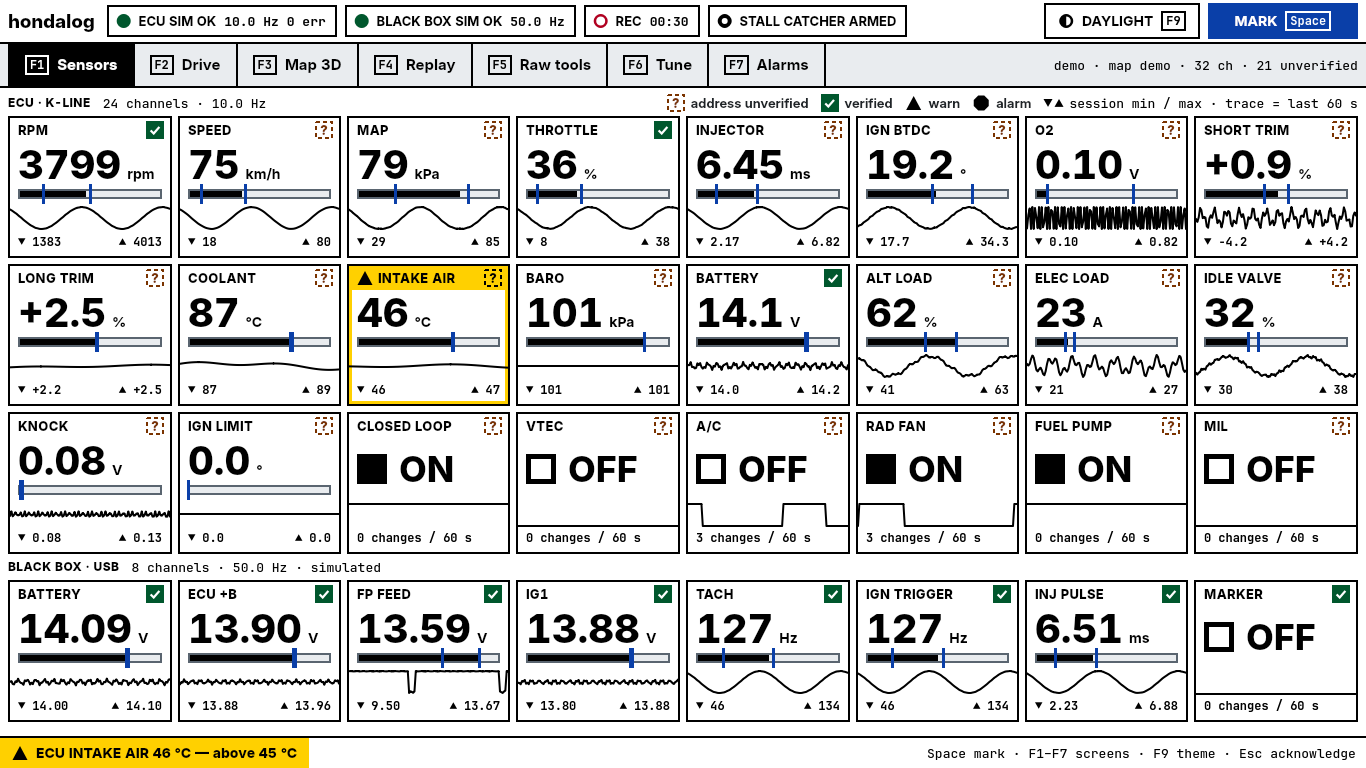
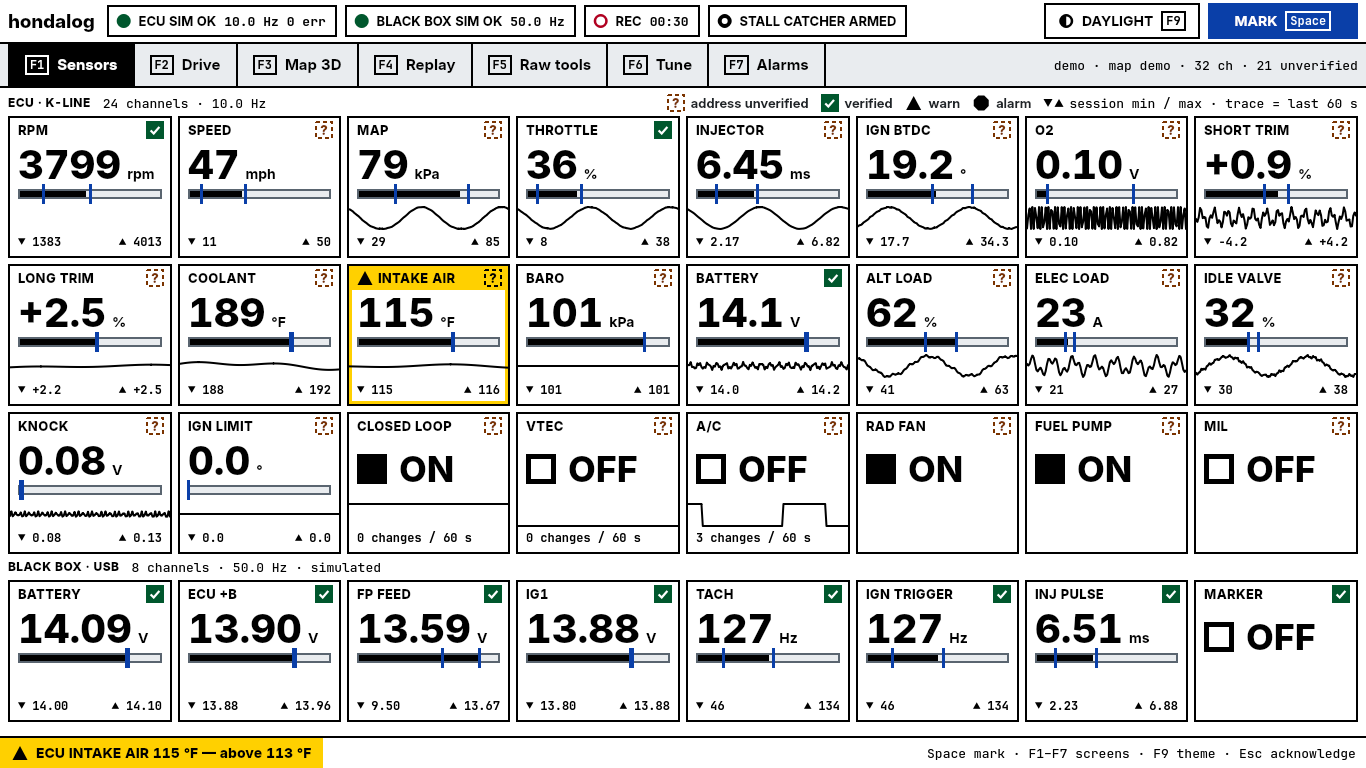
docs: screenshots in US units and of the new states; performance numbers
tools/screenshots.py also saves replay-compare (two cursors, a second stall
in grey), rawtools-rank and tune-rom in both themes. docs/ui-performance.md
has the before and after of the all-sensors screen and where the time went.
A channel read again with the same number no longer reformats its tile.

diff --git a/tools/screenshots.py b/tools/screenshots.py
@@ -1,5 +1,7 @@
 #!/usr/bin/env python3
-"""Save every screen in both themes at exactly 1366x768 to docs/screenshots/.
+"""Save every screen in both themes at exactly 1366x768 to docs/screenshots/,
+then three states the plain screens do not show (replay-compare, rawtools-rank,
+tune-rom).
 
 Uses the demo data (the mockup's simulated car) frozen at one moment, so the
 pictures are repeatable and can be compared with docs/mockups/.
@@ -87,10 +89,61 @@ def main(out: Path) -> int:
                     shot(f"map3d-{mode}-{name}")
                 win.map3d.view_seg.set_current("surface")
                 win.map3d._set_mode("surface")
+    extras(win, session, shot, settle, clock)
     gl_ok, reason = scene3d.gl_status()
     print(f"{len(saved)} screenshots in {out}  (3D: {'OpenGL, ' + reason if gl_ok else '2D fallback, ' + reason})")
     win.close()
     return 0
+
+
+def extras(win, session, shot, settle, clock) -> None:
+    """States the seven plain screens do not show: two cursors and a second
+    drive in Replay, the Rank addresses panel, Tune with a ROM open."""
+    import numpy as np
+
+    from hondalog.tuning.demo import build_demo_rom
+    from hondalog.ui import backends, wired
+
+    # Replay: cursor B dropped at the first loss, A on the stall, an earlier stall laid over in grey
+    replay = win.replay
+    other = backends.demo_stall_view()
+    other.title = "stall_20261109_081455"
+    for cid in other.data:                          # the same failure, 2.5 s later
+        if cid != "fuel_pump":
+            other.data[cid] = np.roll(other.data[cid], 25)
+    win.show_screen(3)
+    replay.set_overlay(other)
+    replay.block.set_cursor(replay.forensics.loss[0].t)
+    replay.toggle_cursor_b()
+    replay.block.set_cursor(0.0)
+
+    # Raw tools: what followed the throttle in the last 40 sweeps
+    mapper = session.mapper
+    for k in range(40):
+        mapper.fill(70.0 + k * 0.9)
+    mapper.revision += 1
+    win.raw.show_rank(True)
+    win.raw.rank.set_reference("tps")
+    win.raw.rank.rank()
+
+    # Tune: the demo ROM opened from inside the app, one cell edited, the engine moving
+    tables = wired.RomTableModel(backends.DemoTableModel(writable=False), store_dir=TMP / "roms")
+    rom = TMP / "p28_demo.bin"
+    rom.write_bytes(build_demo_rom())
+    session.tables = win.tune.tm = tables
+    win.tune.open_rom(rom)
+    win.show_screen(5)
+    for _ in range(45):                             # 9 s of driving: a trail on the table and the surface
+        clock[0] += 0.2
+        settle(1)
+    win.tune.grid.cur = win.tune.grid.anchor = (3, 4)
+    win.tune.bump(3)
+
+    for name in ("daylight", "night"):
+        theme.T.set(name)
+        for index, screen in ((3, "replay-compare"), (4, "rawtools-rank"), (5, "tune-rom")):
+            win.show_screen(index)
+            shot(f"{screen}-{name}")
 
 
 if __name__ == "__main__":

diff --git a/hondalog/ui/tiles.py b/hondalog/ui/tiles.py
@@ -82,6 +82,7 @@ class Tile(QWidget):
     def _reset(self) -> None:
         self._gen = self._spark_gen = -1
         self._units_rev = -1
+        self._seen: tuple | None = None
         self._scale, self._offset = 1.0, 0.0
         self._value_t = -1e9
         self._fast = False
@@ -128,6 +129,7 @@ class Tile(QWidget):
             self._value_font = None
             self._tag = "BLACK BOX" if spec.source == "BB" else spec.source
             self._gen = self._spark_gen = -1
+            self._seen = None
             dirty = True
         stale = self.demo_stale or st.stale(now)
         level = self.demo_level if self.demo_level is not None else (
@@ -185,6 +187,10 @@ class Tile(QWidget):
         is drawn changed, 1 if the value or the gauge did, 2 if the session
         min / max in the footer did as well."""
         value = st.value
+        seen = (value, st.vmin, st.vmax, stale, self.width())
+        if seen == self._seen:              # read again with the same number: nothing to work out
+            return 0
+        self._seen = seen
         text = "---" if stale and not spec.is_flag else self._fmt(spec, value)
         if stale and spec.is_flag:
             text = "---"

diff --git a/docs/ui-performance.md b/docs/ui-performance.md
@@ -27,37 +27,60 @@ W2's simulated black box at 50 Hz. Per screen it reports:
 ## Measured here (not on the T430)
 
 Intel Xeon 2.1 GHz, 2 cores, PySide6 / pyqtgraph, Qt offscreen platform,
-1366x768, Daylight, 8 s per screen, after the backends were bound
-(`ui/wired.py`): W1 link at true rates (fast class about 17 Hz, each read
-published on arrival), W3 math channels and alarms on the poller thread,
-W4 recorder writing a drive with raw bytes into SQLite, W2's simulated black box
-at 50 Hz, 41 tiles (24 ECU + 8 black box + 9 math).
+1366x768, Daylight, 8 s per screen, with the backends bound (`ui/wired.py`):
+W1 link at true rates (fast class about 17 Hz, each read published on
+arrival), W3 math channels and alarms on the poller thread, W4 recorder
+writing a drive with raw bytes into SQLite, W2's simulated black box at
+50 Hz, 41 tiles (24 ECU + 8 black box + 9 math).
 
 | Screen | fps | min fps | frame p50 / p95 / max (ms) | CPU % | latency p50 / p95 / max (ms) |
 |---|---|---|---|---|---|
-| Sensors, 41 tiles | 30.3 | 29.5 | 3.4 / 9.5 / 14.8 | 23.8 | 4.3 / 14.5 / 16.7 |
-| Drive | 30.3 | 29.5 | 1.8 / 6.3 / 9.7 | 16.5 | 3.6 / 15.2 / 17.7 |
-| Map 3D (2D fallback) | 30.3 | 29.5 | 4.0 / 8.4 / 13.9 | 21.6 | 4.8 / 14.5 / 16.0 |
-| Map 3D, orbiting | 30.3 | 28.4 | 2.6 / 6.1 / 9.9 | 31.6 | 6.0 / 14.3 / 16.9 |
-| Replay, live lanes following the bus | 30.3 | 29.5 | 0.2 / 20.7 / 33.8 | 26.9 | 5.2 / 14.0 / 17.2 |
-| Replay, playing a file | 30.3 | 29.4 | 4.5 / 7.7 / 20.7 | 24.5 | 3.2 / 14.4 / 17.1 |
-| Raw tools, sweeping | 30.3 | 29.5 | 0.3 / 4.8 / 22.4 | 16.3 | 7.8 / 17.9 / 20.4 |
-| Tune (2D fallback) | 30.3 | 29.4 | 2.9 / 7.1 / 12.7 | 19.4 | 4.5 / 14.4 / 17.4 |
-| Alarms | 30.3 | 28.8 | 0.2 / 3.6 / 11.0 | 13.9 | 5.4 / 14.5 / 16.2 |
-| Sensors again (traces full) | 30.3 | 29.5 | 4.0 / 13.5 / 20.0 | 27.2 | 6.0 / 14.7 / 16.0 |
+| Sensors, 41 tiles | 30.3 | 29.4 | 2.1 / 3.8 / 5.4 | 12.8 | 1.6 / 13.7 / 17.9 |
+| Drive | 30.3 | 29.5 | 1.3 / 4.6 / 10.6 | 11.5 | 3.5 / 15.0 / 16.9 |
+| Map 3D (2D fallback) | 30.3 | 29.5 | 3.5 / 6.4 / 9.4 | 15.4 | 5.2 / 14.5 / 17.1 |
+| Map 3D, orbiting | 30.3 | 28.3 | 2.9 / 6.1 / 12.2 | 31.0 | 5.3 / 13.8 / 17.0 |
+| Replay, live lanes following the bus | 30.3 | 29.5 | 0.2 / 17.8 / 25.6 | 21.0 | 4.5 / 10.4 / 15.4 |
+| Replay, playing a file | 30.3 | 29.4 | 4.7 / 7.5 / 10.4 | 21.7 | 2.4 / 15.0 / 16.9 |
+| Raw tools, sweeping | 30.3 | 29.5 | 0.3 / 5.3 / 14.5 | 11.3 | 8.2 / 17.8 / 20.0 |
+| Tune (2D fallback) | 30.3 | 29.5 | 3.7 / 6.5 / 10.1 | 15.5 | 3.6 / 14.1 / 15.9 |
+| Alarms | 30.3 | 29.6 | 0.1 / 2.4 / 5.2 | 8.7 | 5.0 / 13.9 / 17.0 |
+| Sensors again (traces full) | 30.3 | 29.5 | 2.9 / 4.9 / 6.9 | 16.0 | 3.6 / 15.0 / 18.7 |
 
-Peak RSS 171 MB. No link errors. All four targets are met.
+Peak RSS 177 MB. No link errors. All targets are met, including the one the
+bench now checks for the screen that is up all day: all sensors at or under
+20 % of a core with the simulated black box running. From run to run on
+this (shared) machine Sensors is 12 to 17 % and "Sensors again" 15 to 19.5 %.
 
-Against the numbers before the backends were bound (stand-in sources,
-32 tiles): frame rate and frame times are unchanged, latency is lower (the
-link stamps each read itself, and reads are published one by one instead of
-once per sweep), and CPU is higher: Sensors went from 20 % to between 21 and
-30 % from run to run. Most of that is the simulated black box, which is now
-W2's real simulator: a 1 kHz model of the box running in this process, where
-the stand-in was a few lines at 50 Hz. `tools/bench_ui.py --no-blackbox`
-leaves it out: Sensors is then 13 to 15 % and Drive 10 %. With a real box
-that model's cost is not on the laptop; the 50 Hz frames and eight more
-live tiles are.
+"Sensors again" is the honest number for that screen: after a minute the
+sparklines are full, and stroking 41 of them is real work. Before this was
+looked at, the same run gave 23.7 % (Sensors) and 29.7 % (Sensors again),
+with a frame p95 of 9.5 and 14.6 ms. Where it went, measured per thread
+(`/proc/self/task`) and with cProfile on the UI thread:
+
+| What | Before | After |
+|---|---|---|
+| black box thread: W2's 1 kHz model of the box, in this process | 6.1 % | 2.6 to 3.1 % |
+| ... of that, the model itself, per simulated millisecond | 38 us | 12.6 us |
+| UI thread, sparklines full | about 16 % | 8.4 to 9.6 % |
+| tile paint calls per second | about 290 | about 160, most of them one band |
+
+- The simulated black box next to a simulated ECU now runs the cheap model
+  (`Car(sub=1)`: one ADC reading per millisecond instead of five, the filter
+  steps in closed form), and its in-process port blocks until a frame is due
+  instead of waking every 2 ms. `hondalog-bbsim`, `bbsim:` and the real box
+  are untouched: the full model is still what the firmware's tests run on.
+- A tile whose channel arrives faster than the frame timer (the box at
+  50 Hz) redraws its value 10 times a second, not 30.
+- A tile is repainted in bands: a new value repaints the value and gauge, a
+  new sparkline sample the sparkline and footer, and the header (label,
+  marker) only when the state changes.
+- Each tile strokes its sparkline once a second (the bus samples it at
+  2 Hz), the tiles taking turns over 30 frames.
+- A channel that is read again with the same number costs a comparison.
+
+`tools/bench_ui.py --no-blackbox` leaves the simulated box out: Sensors is
+then 11 to 12 % and Drive 9 %. With a real box the model's cost is not on
+the laptop; the 50 Hz frames and eight more live tiles are.
 
 Latency is dominated by waiting for the next 33 ms frame; the UI adds no
 queue of its own.
@@ -90,13 +113,18 @@ small, but it has not been measured. If it is not small, `hondalog --no-gl`
 
 - No per-sample signals. Sources publish into `ChannelBus`; one 33 ms timer
   reads it.
-- A tile repaints only when its text, gauge pixel, state or trace changed.
-  Its strings, fonts, pens and the sparkline polygon are prepared outside
-  `paintEvent`; the trace is stroked into a pixmap at 2 Hz and blitted.
-- The 2 Hz sparkline redraws are spread over four frames.
-- Replay puts all 13 traces in one ViewBox. A file view is stroked once and
-  cached, so moving the cursor only blits a strip. A live view draws each
-  trace as two 1 px lines, which is several times faster than a stroked
-  2 px line.
+- A tile repaints only when its text, gauge pixel, state or trace changed,
+  and then only the band that did. Its strings, fonts, pens and the
+  sparkline polygon are prepared outside `paintEvent`; the trace is stroked
+  into a pixmap once a second and blitted.
+- The sparkline redraws are spread over 30 frames: one or two per frame.
+- Replay puts all 13 traces in one ViewBox. A file view is the replay
+  session's min/max envelope for the visible window (at most two points per
+  pixel column, however long the drive), stroked once and cached, so moving
+  the cursor only blits a strip and only zooming or panning draws anew. A
+  live view draws each trace as two 1 px lines, which is several times
+  faster than a stroked 2 px line.
+- The tune grid repaints the cells whose outline or trail bar changed, not
+  the table.
 - The 3D view repaints on demand: when data or the camera changed.
 - MSAA steps down 4x, 2x, off when 30 frames in a row take over 12 ms.

diff --git a/README.md b/README.md
@@ -63,6 +63,11 @@ open (`--rom`), the cells are the fuel table's own cells.
 |---|---|
 | ![Replay](docs/screenshots/replay-daylight.png) | ![mockup](docs/mockups/replay-stall-forensics.png) |
 
+Two cursors (A and B, with the change of every lane between them) and a
+second stall laid over the first in grey:
+
+![Replay: two cursors and a second drive](docs/screenshots/replay-compare-daylight.png)
+
 A stall caught on the simulated ECU, banner and capture opened in Replay:
 
 ![Stall banner](docs/screenshots/sim-stall-banner.png)
@@ -76,11 +81,21 @@ A stall caught on the simulated ECU, banner and capture opened in Replay:
 
 ![Raw tools on the simulated ECU](docs/screenshots/sim-rawtools.png)
 
+Rank addresses (R): what followed the throttle in the sweeps so far, ready
+to be assigned to a channel:
+
+![Rank addresses](docs/screenshots/rawtools-rank-daylight.png)
+
 ### Tuning table editor (chipped P28)
 
 | app | mockup |
 |---|---|
 | ![Tune](docs/screenshots/tune-daylight.png) | ![mockup](docs/mockups/tune-table-p28.png) |
+
+With a ROM opened from the app: the definition's own tables and axes, the
+live cell with its trail on the table and the surface, the ROM card:
+
+![Tune with a ROM open](docs/screenshots/tune-rom-daylight.png)
 
 ### Status bar and alarm states
 
